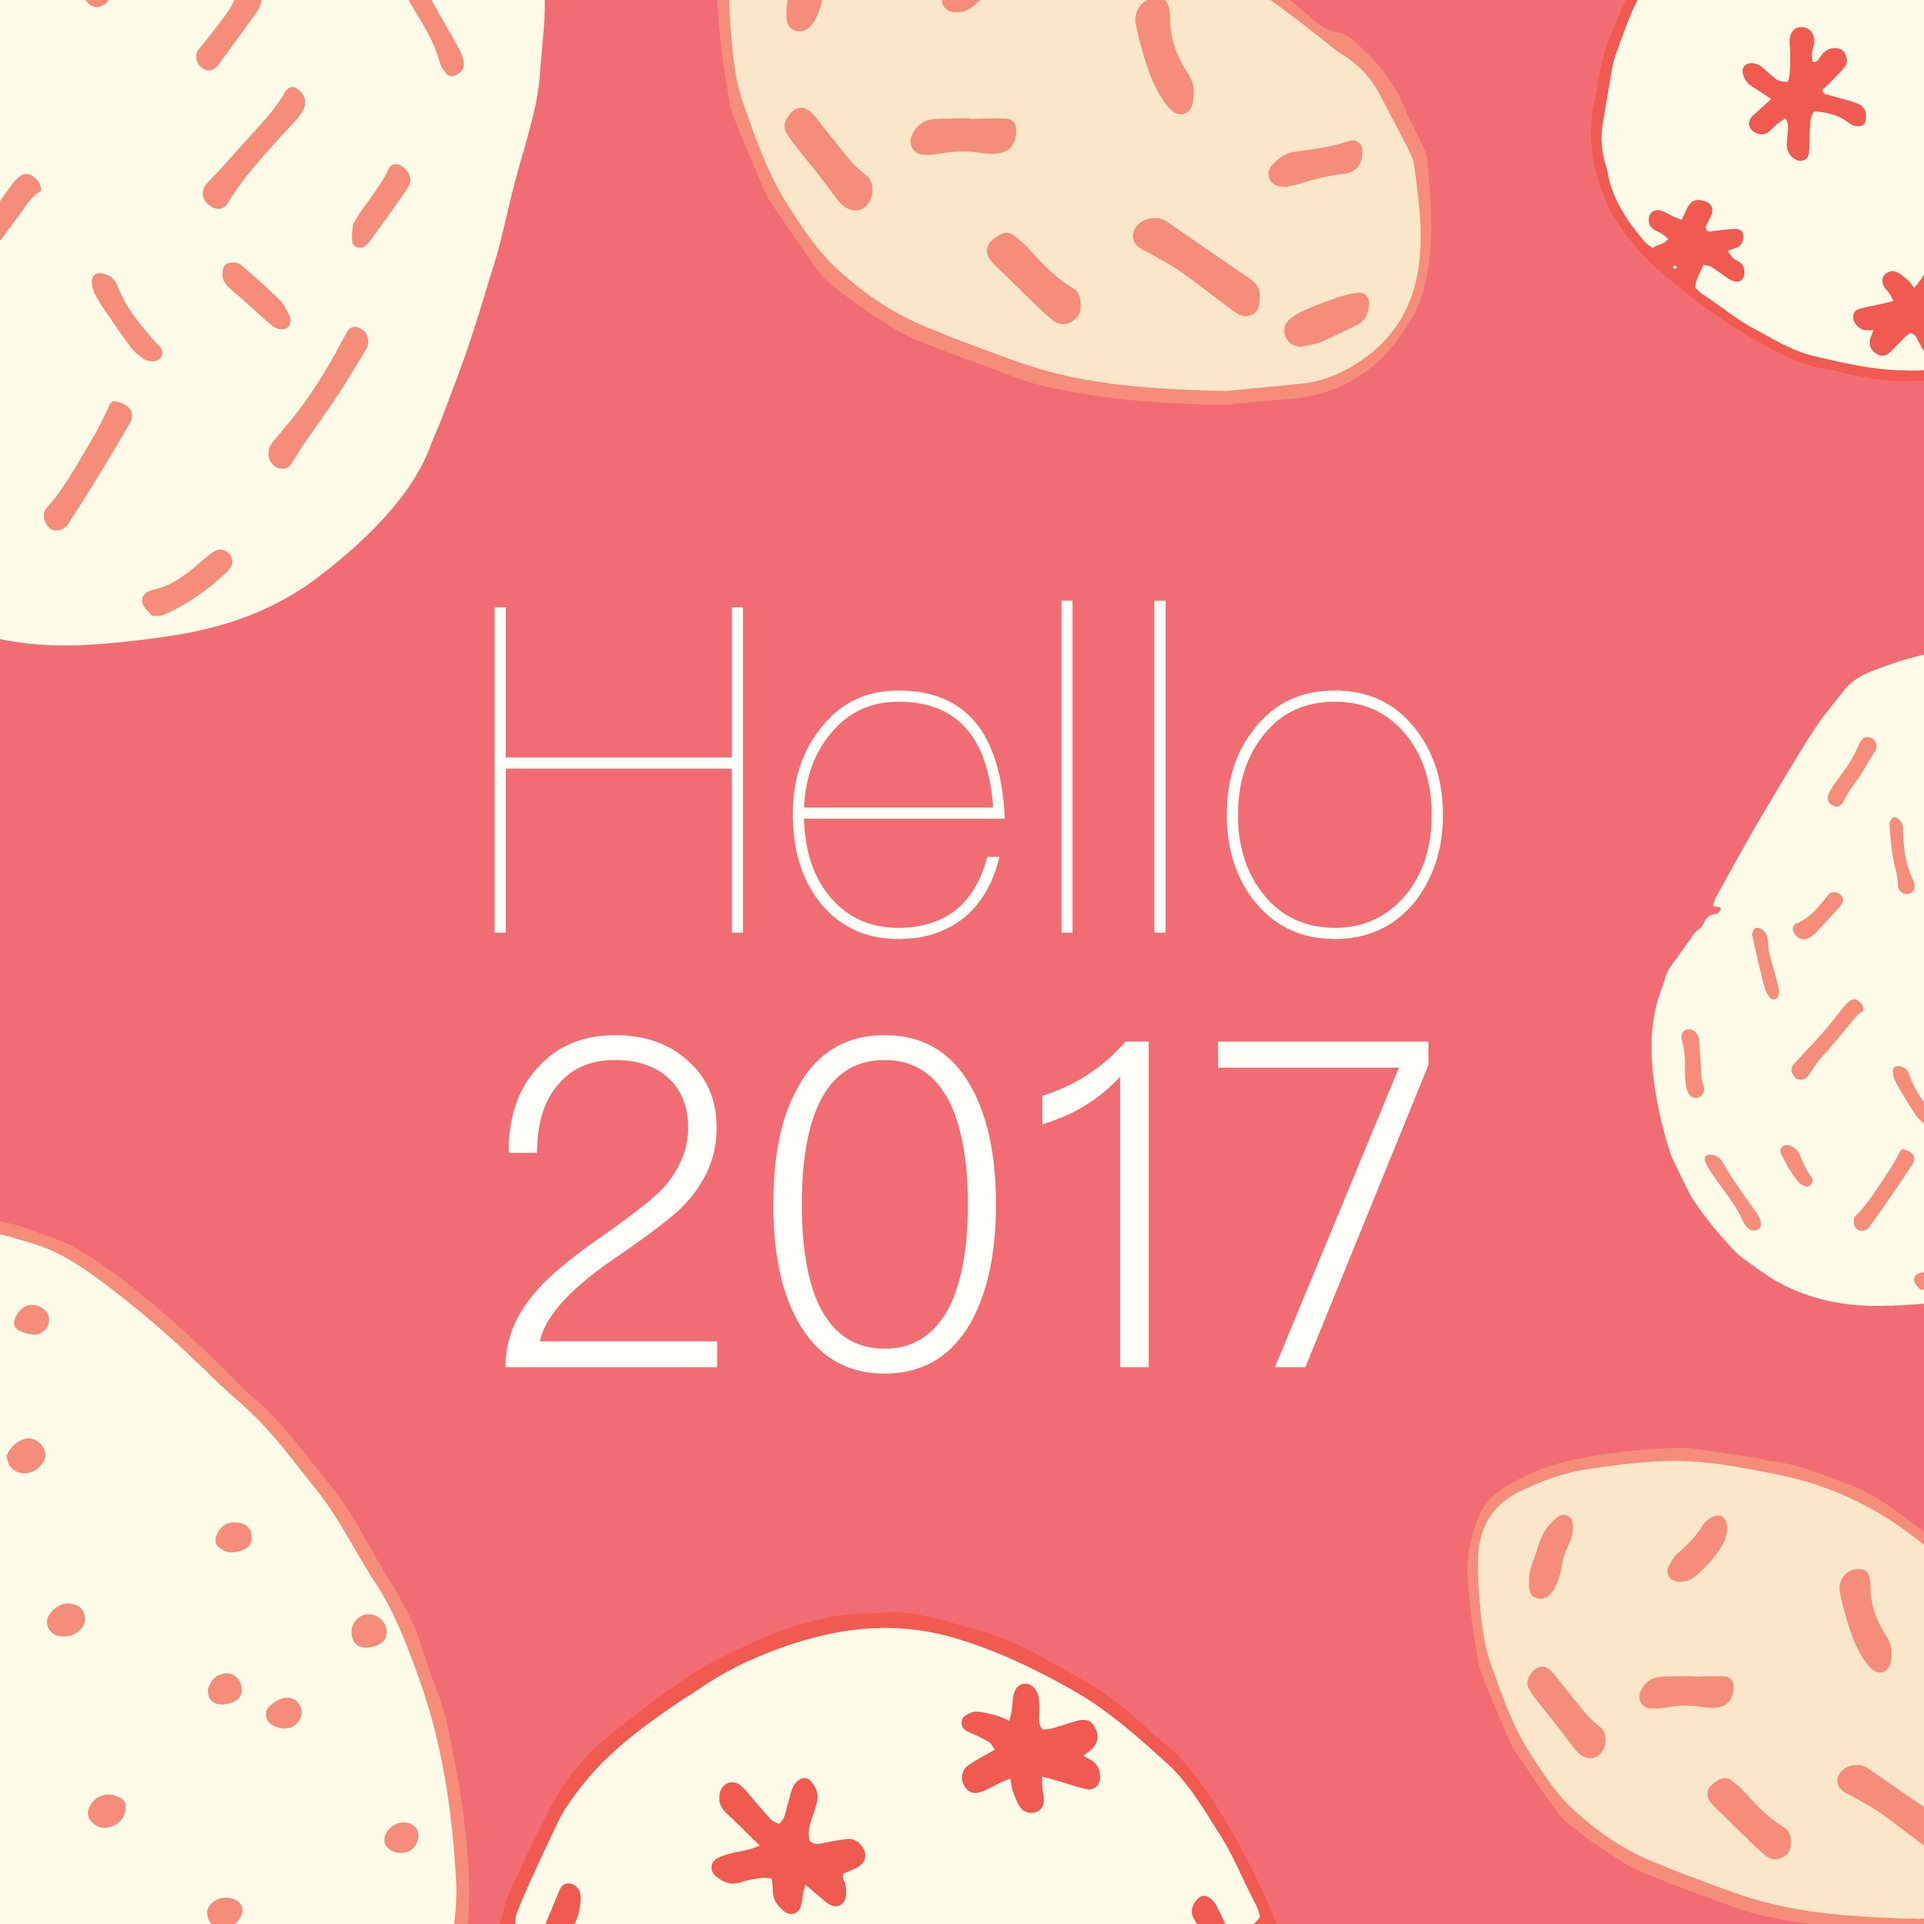
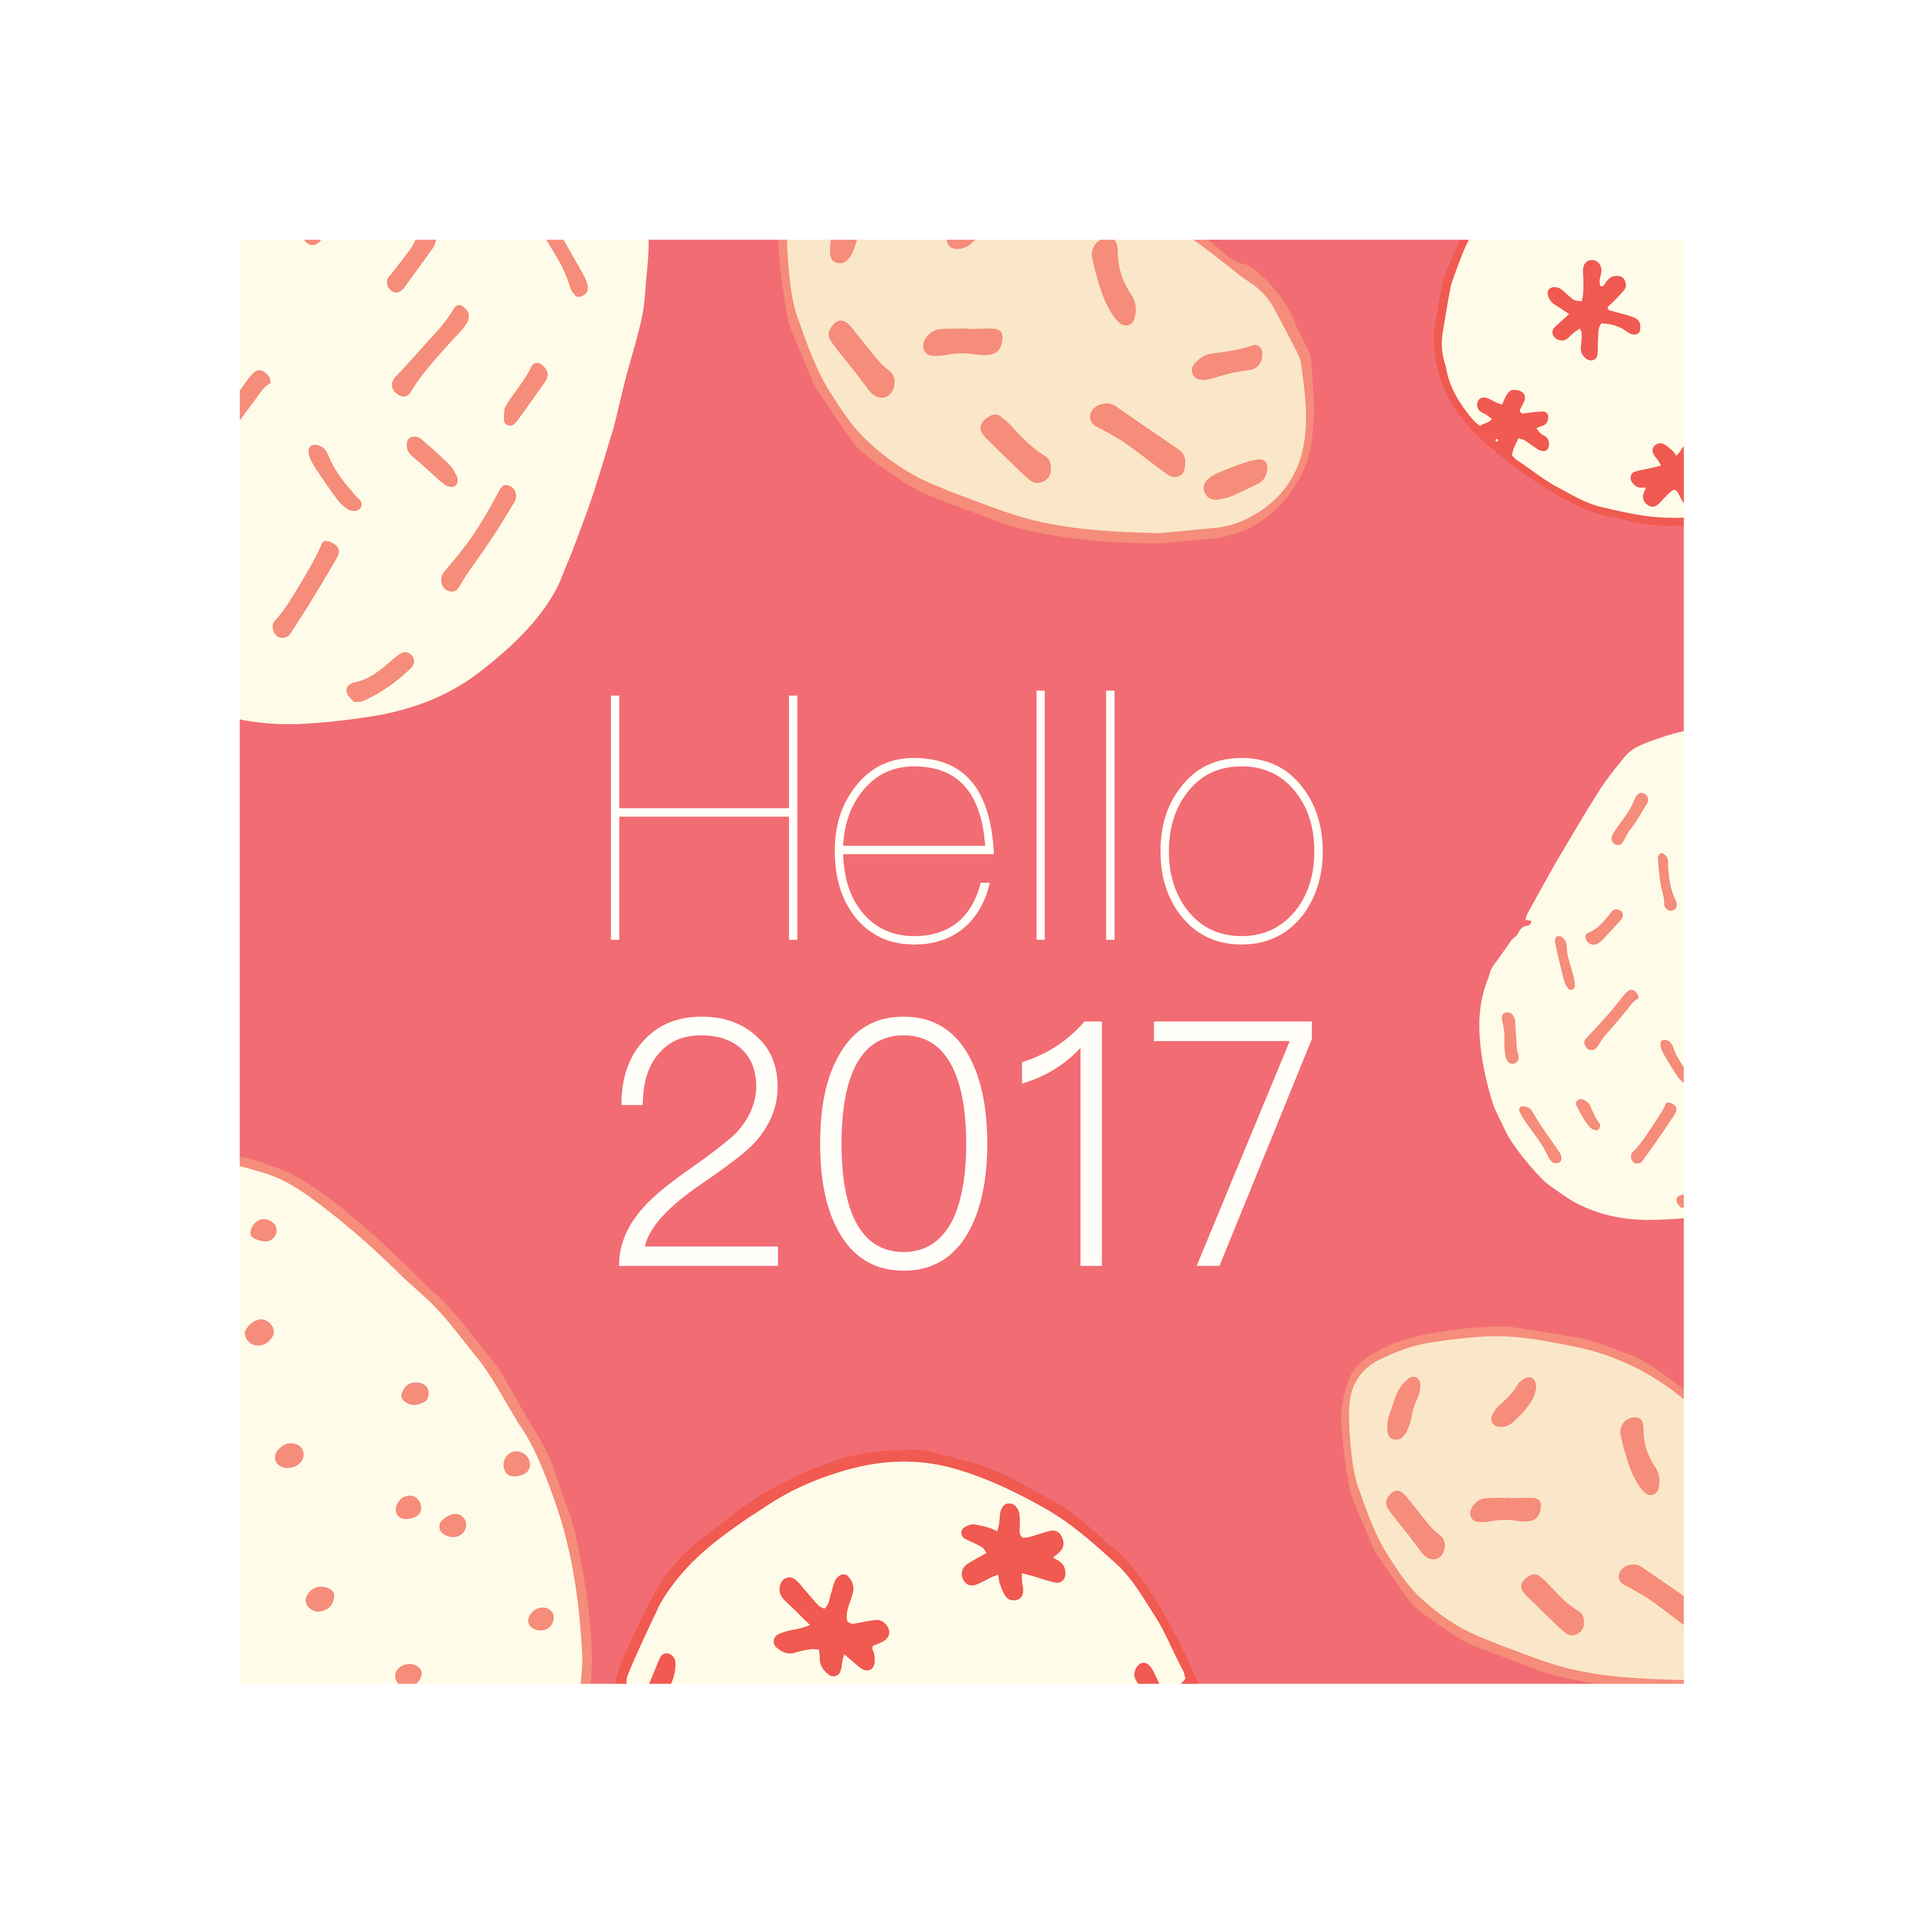
update

diff --git a/_site/blog/demo-post.html b/_site/blog/demo-post.html
@@ -27,12 +27,12 @@
 	<meta name="twitter:card" content="summary_large_image">
 	<meta name="twitter:title" content="Demo Post – Duet">
 	<meta name="twitter:description" content="">
-	<meta name="twitter:image:src" content="http://localhost:4000/images/demo/due_cactus_instar.png">
+	<meta name="twitter:image:src" content="http://localhost:4000/images/demo/due_hello_2017.png">
 
 	<!-- Facebook OpenGraph -->
 	<meta property="og:title" content="Demo Post – Duet" />
 	<meta property="og:description" content="" />
-	<meta property="og:image" content="http://localhost:4000/images/demo/due_cactus_instar.png" />
+	<meta property="og:image" content="http://localhost:4000/images/demo/due_hello_2017.png" />
 
 	
 	<!-- Font Embed Code -->
@@ -130,7 +130,7 @@
 
 <section class="single">
 
-	<p><img src="/images/demo/due_cactus_instar.png" alt="" /></p>
+	<p><img src="/images/demo/due_hello_2017.png" alt="" /></p>
 
 <h2 id="demo-content">Demo content</h2>
 

diff --git a/_site/project/demo-project.html b/_site/project/demo-project.html
@@ -27,12 +27,12 @@
 	<meta name="twitter:card" content="summary_large_image">
 	<meta name="twitter:title" content="Demo Project – Duet">
 	<meta name="twitter:description" content="">
-	<meta name="twitter:image:src" content="http://localhost:4000/images/demo/demo-square.jpg">
+	<meta name="twitter:image:src" content="http://localhost:4000/images/demo/due_cactus_instar.png">
 
 	<!-- Facebook OpenGraph -->
 	<meta property="og:title" content="Demo Project – Duet" />
 	<meta property="og:description" content="" />
-	<meta property="og:image" content="http://localhost:4000/images/demo/demo-square.jpg" />
+	<meta property="og:image" content="http://localhost:4000/images/demo/due_cactus_instar.png" />
 
 	
 	<!-- Font Embed Code -->
@@ -130,7 +130,7 @@
 
 <section class="single">
 
-	<p><img src="/images/demo/demo-landscape.jpg" alt="" /></p>
+	<p><img src="/images/demo/due_cactus_instar.png" alt="" /></p>
 
 <h2 id="demo-content">Demo content</h2>
 

diff --git a/_site/index.html b/_site/index.html
@@ -140,7 +140,7 @@
 			<a class="portfolio-item__link" href="/Duet_due/project/demo-project">
 
 				<div class="portfolio-item__image">
-					<img src="/Duet_due/images/demo/demo-square.jpg" alt="Demo Project">
+					<img src="/Duet_due/images/demo/due_cactus_instar.png" alt="Demo Project">
 				</div>
 
 				<div class="portfolio-item__content">
@@ -161,7 +161,7 @@
 			<a class="portfolio-item__link" href="/Duet_due/project/demo-project">
 
 				<div class="portfolio-item__image">
-					<img src="/Duet_due/images/demo/demo-landscape-2.jpg" alt="Demo Project">
+					<img src="/Duet_due/images/demo/due_cactus_0801.png" alt="Demo Project">
 				</div>
 
 				<div class="portfolio-item__content">

diff --git a/_site/blog/index.html b/_site/blog/index.html
@@ -139,6 +139,27 @@
 			<a class="blog-post__link" href="/Duet_due/blog/demo-post">
 
 				<div class="blog-post__image">
+					<img src="/Duet_due/images/demo/due_hello_2017.png" alt="Demo Post">
+				</div>
+
+				<div class="blog-post__content">
+					<div class="blog-post__info">
+						<h2 class="blog-post__title">Demo Post</h2>
+						<p class="blog-post__subtitle">30 June 2018</p>
+					</div>
+				</div>
+
+			</a>
+
+		</article>
+
+		
+
+		<article class="blog-post">
+
+			<a class="blog-post__link" href="/Duet_due/blog/demo-post">
+
+				<div class="blog-post__image">
 					<img src="/Duet_due/images/demo/due_cactus_instar.png" alt="Demo Post">
 				</div>
 

diff --git a/_posts/2018-08-30-demo-post.md b/_posts/2018-08-30-demo-post.md
@@ -1,11 +1,10 @@
 ---
-title: 'Demo Project'
-subtitle: 'This is a demo'
+title: 'Demo Post'
 date: 2018-06-30 00:00:00
-featured_image: '/images/demo/due_cactus_0801.png'
+featured_image: '/images/demo/due_hello_2017.png'
 ---
 
-![](/images/demo/due_cactus_0801.png)
+![](/images/demo/due_hello_2017.png)
 
 ## Demo content
 
@@ -46,6 +45,7 @@ Here's a really neat custom feature we added – galleries:
     <img src="{{ site.baseurl }}/images/demo/demo-landscape-2.jpg">
 </div>
 
+
 Inspired by the Galleries feature from WordPress, we've made it easy to create grid layouts for your images. Just use a bit of simple HTML in your post to create a masonry grid image layout:
 
 ```html
@@ -69,12 +69,10 @@ Here's another gallery with only one column, which creates a carousel slide-show
 
 A nice little feature: the carousel only advances when it is in view, so your visitors won't scroll down to find it half way through your images.
 
-
 <div class="gallery" data-columns="1">
 	<img src="{{ site.baseurl }}/images/demo/demo-landscape.jpg">
 	<img src="{{ site.baseurl }}/images/demo/demo-landscape-2.jpg">
 </div>
-
 
 ### What about videos?
 

diff --git a/_projects/2018-06-30-demo-project.md b/_projects/2018-06-30-demo-project.md
@@ -2,10 +2,10 @@
 title: 'Demo Project'
 subtitle: 'This is a demo'
 date: 2018-06-30 00:00:00
-featured_image: '/images/demo/demo-square.jpg'
+featured_image: '/images/demo/due_cactus_instar.png'
 ---
 
-![](/images/demo/demo-landscape.jpg)
+![](/images/demo/due_cactus_instar.png)
 
 ## Demo content
 
